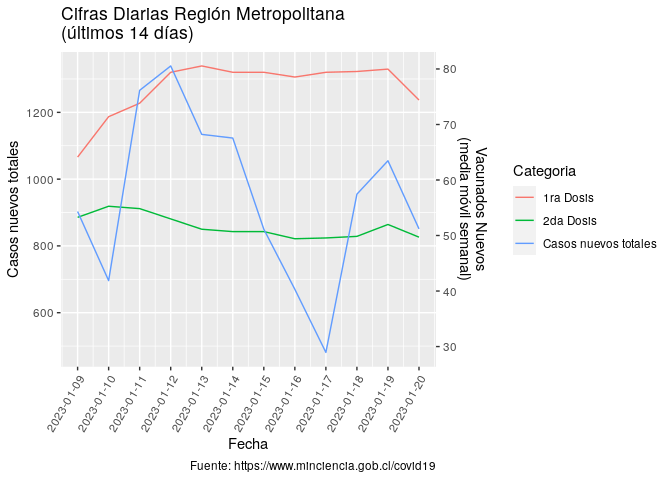
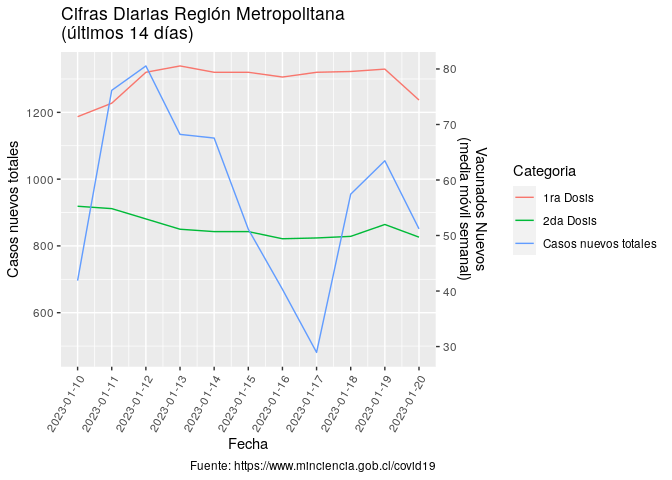
Re-build Rmarkdown files

diff --git a/README.md b/README.md
@@ -3,7 +3,7 @@
 
 Ejemplo de uso de total\_casos de COVID recopilados por el Ministerio de
 Ciencia de Chile <https://www.minciencia.gob.cl/covid19>. Última
-actualización: 2023-01-22
+actualización: 2023-01-23
 
 ## Visualización desde el comienzo de la pandemia
 
